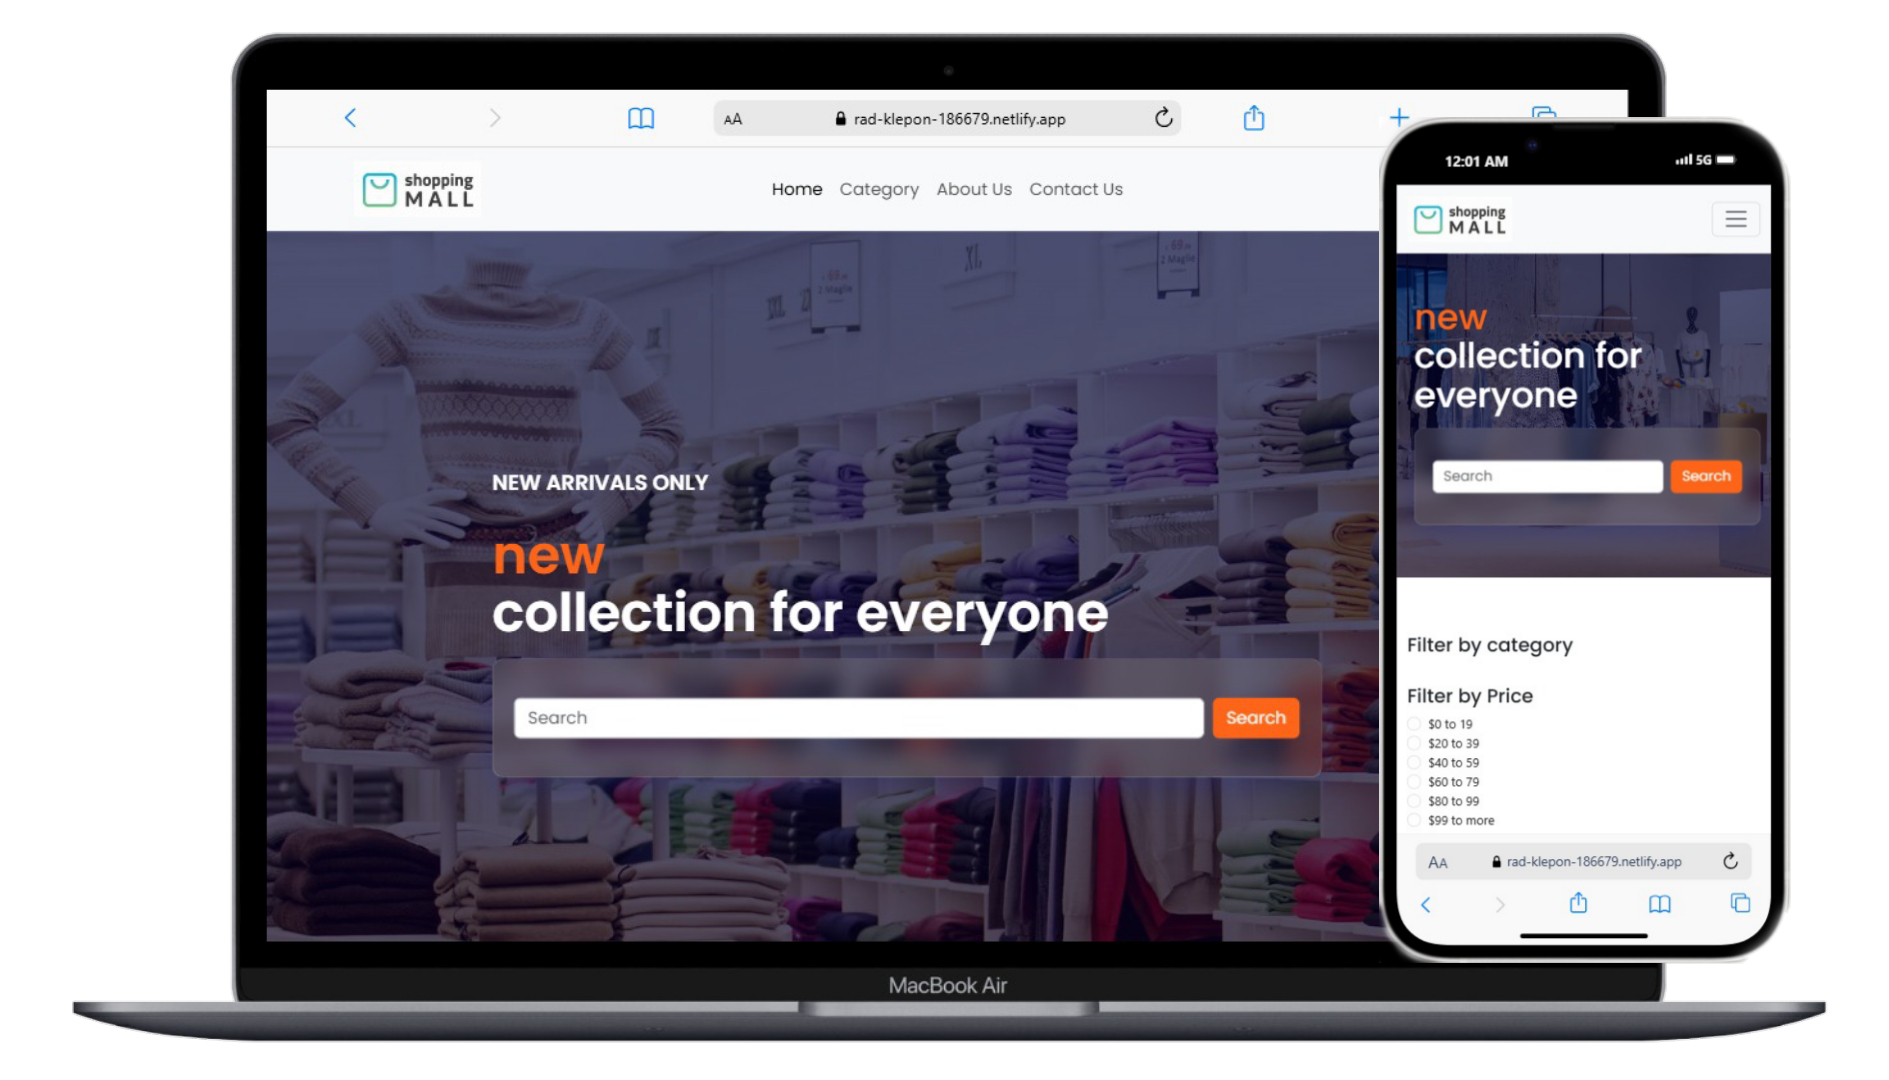
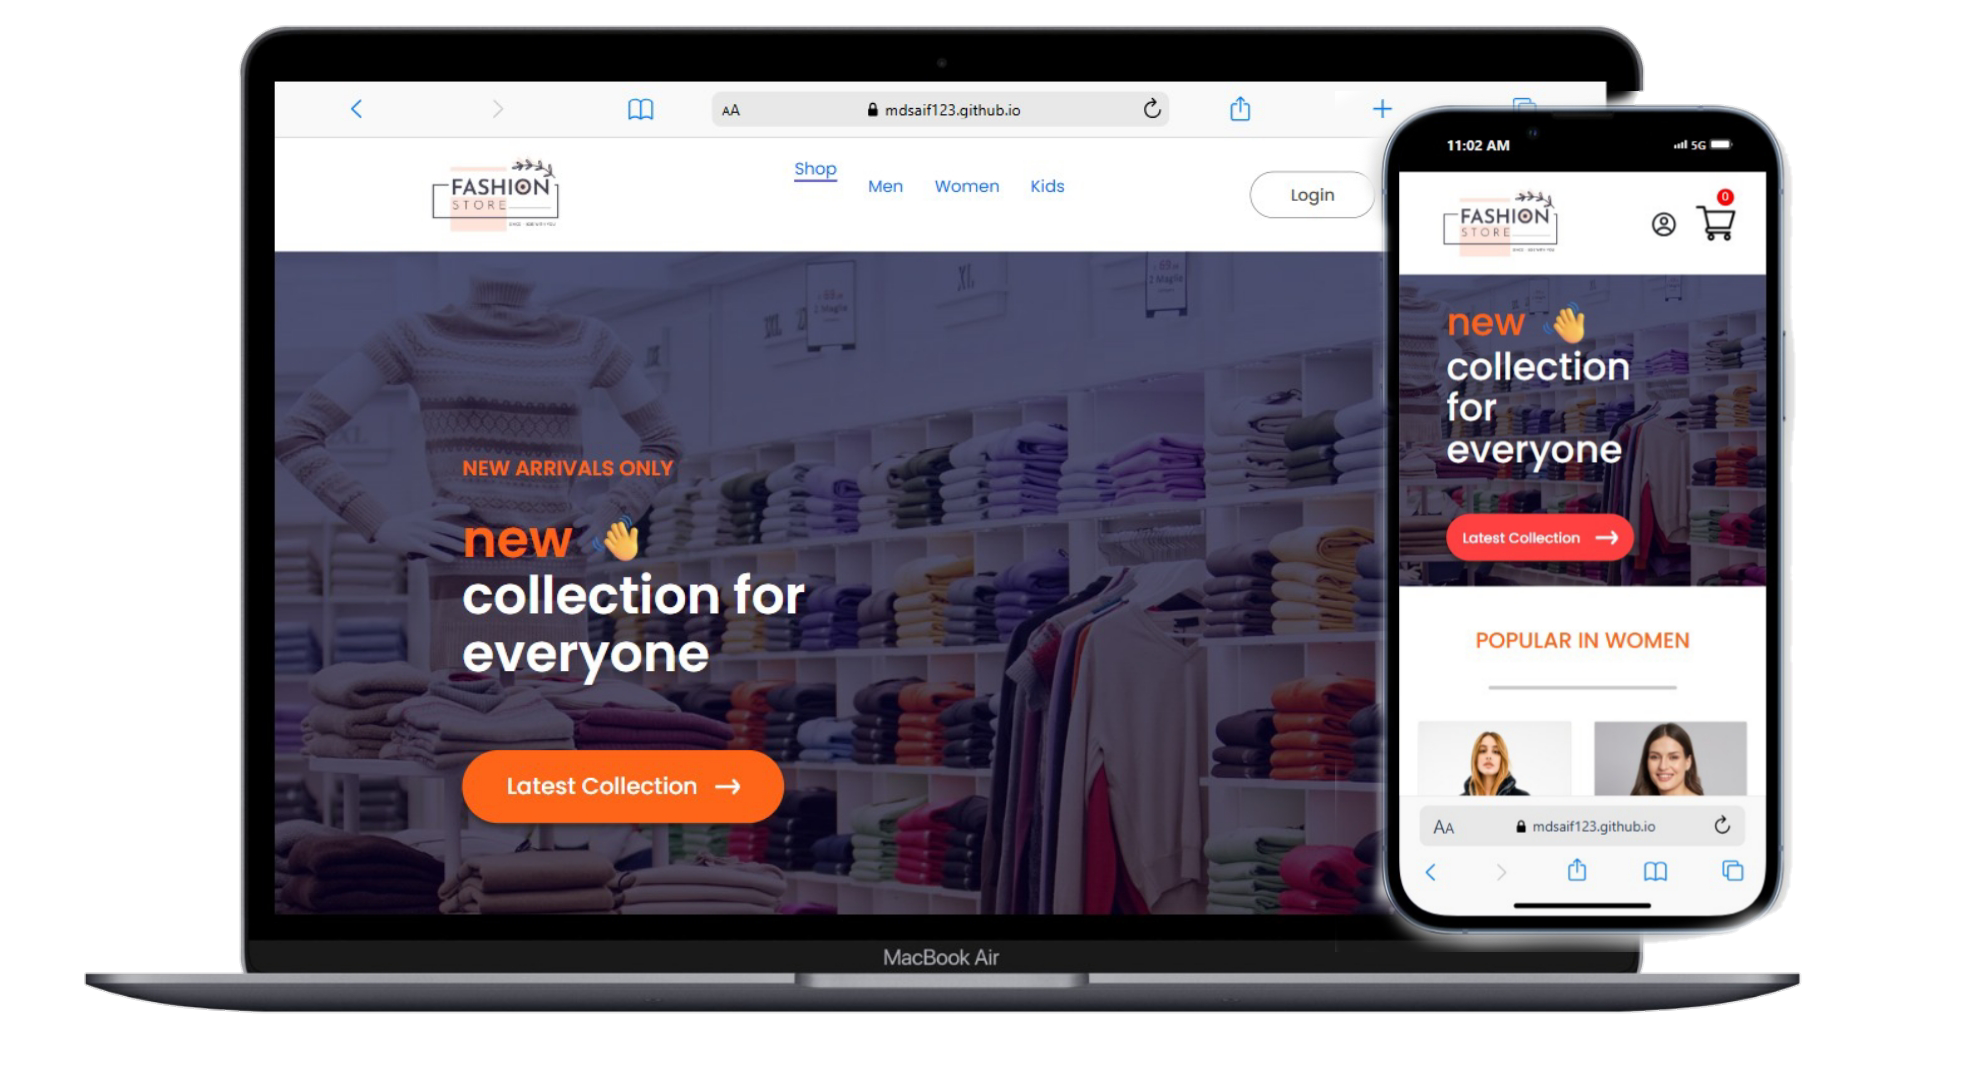
update projects

diff --git a/src/components/Projects/Projects.js b/src/components/Projects/Projects.js
@@ -166,6 +166,8 @@ import School from "../../assets/images/project3.png"
 import afiya from "../../assets/images/project4.png"
 import rabs from "../../assets/images/project5.png"
 import facebook from "../../assets/images/project6.png"
+import Aspect from "../../assets/images/Aspect.png"
+import Humandhood from "../../assets/images/Humanhood.png"
 
 const Project = () => {
   useEffect(() => {
@@ -177,23 +179,17 @@ const Project = () => {
   }, []);
 
   const projects = [
-    {
-      id: 1,
-      image: NotesImg, // Replace with your image path
-      title: "Notes App",
-      description: "MERN stack project, featuring authentication and CRUD operations",
-      technologies: ["fab fa-react", "fab fa-node", "fas fa-database"], // Font Awesome icons
-      liveDemo: "https://prismatic-trifle-cbeeb9.netlify.app/",
-      sourceCode: "https://github.com/mdsaif123/Notes",
-    },
+  
     {
       id: 2,
       image: Ecom,
       title: "E-Commerce",
       description: "MERN stack project. Users can log in, view products, Admin functionality includes",
       technologies: ["fab fa-react", "fab fa-node", "fas fa-database"], // Font Awesome icons
-      liveDemo: "https://rad-klepon-186679.netlify.app/",
-      sourceCode: "https://github.com/mdsaif123/Mern-Ecommerce-app",
+      // liveDemo: "https://rad-klepon-186679.netlify.app/",
+        liveDemo: "https://mdsaif123.github.io/Fashion-store-Ecommerce-/",
+      // sourceCode: "https://github.com/mdsaif123/Mern-Ecommerce-app",
+      sourceCode: "https://github.com/mdsaif123/Fashion-store-Ecommerce-",
     },
     {
       id: 3,
@@ -205,15 +201,6 @@ const Project = () => {
       sourceCode: "https://github.com/mdsaif123/Myschool",
     },
     {
-      id: 4,
-      image: afiya,
-      title: "Aafiya Meditreats",
-      description: "Developed a website with doctor and hospital details, for top doctors and hospitals",
-      technologies: ["fab fa-html5", "fab fa-css3-alt", "fab fa-js"],
-      liveDemo: "https://comforting-liger-ed6845.netlify.app/",
-      sourceCode: "https://github.com/mdsaif123/Aafiya-Mediretreats",
-    },
-    {
       id: 5,
       image: rabs,
       title: "Landing Page",
@@ -223,6 +210,25 @@ const Project = () => {
       sourceCode: "https://github.com/mdsaif123/Rabs-assignment-react",
     },
     {
+      id: 1,
+      image: NotesImg, // Replace with your image path
+      title: "Notes App",
+      description: "MERN stack project, featuring authentication and CRUD operations",
+      technologies: ["fab fa-react", "fab fa-node", "fas fa-database"], // Font Awesome icons
+      liveDemo: "https://prismatic-trifle-cbeeb9.netlify.app/",
+      sourceCode: "https://github.com/mdsaif123/Notes",
+    },
+    {
+      id: 4,
+      image: afiya,
+      title: "Aafiya Meditreats",
+      description: "Developed a website with doctor and hospital details, for top doctors and hospitals",
+      technologies: ["fab fa-html5", "fab fa-css3-alt", "fab fa-js"],
+      liveDemo: "https://comforting-liger-ed6845.netlify.app/",
+      sourceCode: "https://github.com/mdsaif123/Aafiya-Mediretreats",
+    },
+  
+    {
       id: 6,
       image: facebook,
       title: "Facebook Clone",
@@ -230,6 +236,24 @@ const Project = () => {
       technologies: ["fab fa-html5", "fab fa-css3-alt", "fab fa-js"],
       liveDemo: "https://mdsaif123.github.io/Facebook_Clone_new/",
       sourceCode: "https://github.com/mdsaif123/Facebook-clone",
+    },
+    {
+      id: 7,
+      image:Humandhood,
+      title: "Human Hood",
+      description: "This website developed to learn the layout and resposiveness puprpose ",
+      technologies: ["fab fa-html5", "fab fa-css3-alt", "fab fa-js"],
+      liveDemo: "https://mdsaif123.github.io/Human-Hood/",
+      sourceCode: "https://github.com/mdsaif123/Human-Hood",
+    },
+    {
+      id: 8,
+      image: Aspect,
+      title: "Aspect Website",
+      description: "This website developed to learn the layout and resposiveness puprpose ",
+      technologies: ["fab fa-html5", "fab fa-css3-alt", "fab fa-js"],
+      liveDemo: "https://mdsaif123.github.io/Aspect-New-1/",
+      sourceCode: "https://github.com/mdsaif123/Aspect-New-1",
     },
   ];
 

diff --git a/src/components/HeroSection/HeroSection.jsx b/src/components/HeroSection/HeroSection.jsx
@@ -80,10 +80,12 @@ const HeroSection = () => {
 </a>
 
 <Magnet padding={20} disabled={false}>
-<button className=" btn-icon"><LinkedInIcon fontSize="small"/></button>
+<a href="https://www.linkedin.com/in/md-saif-linkdin17/?utm_source=share&utm_campaign=share_via&utm_content=profile&utm_medium=android_app">
+<button className=" btn-icon"><LinkedInIcon fontSize="small"/></button></a>
 </Magnet>
 <Magnet padding={20} disabled={false}>
-<button className=" btn-icon"><GitHubIcon/></button>
+<a href="https://github.com/mdsaif123">
+<button className=" btn-icon"><GitHubIcon/></button></a>
 </Magnet>
 <Magnet padding={20} disabled={false}>
 <button className=" btn-icon"><InstagramIcon/></button>
